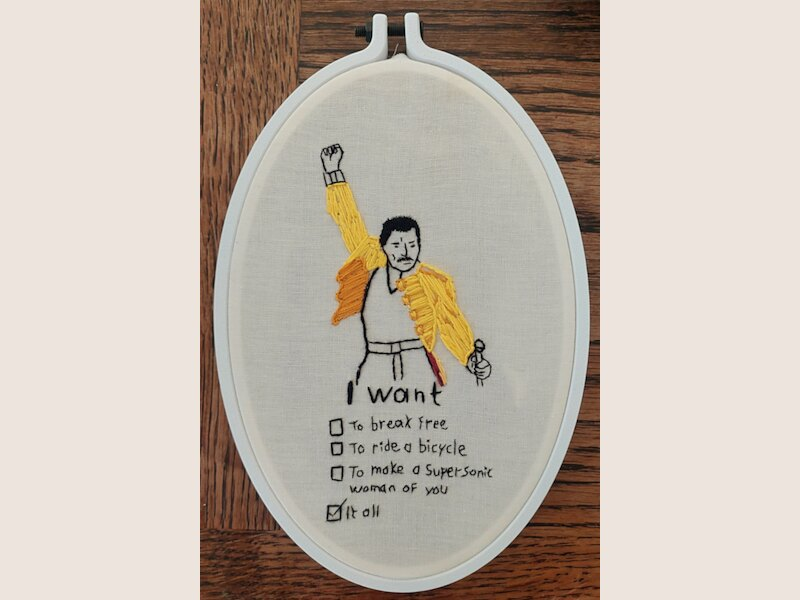
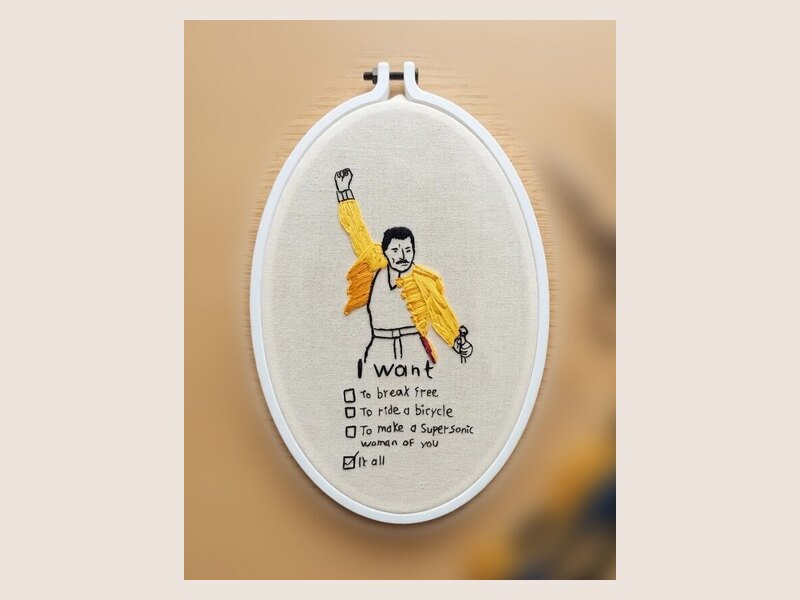
Freddie : photo mise en scène en principale, photo réelle en galerie
Claude-Session: https://claude.ai/code/session_015QeqxFQgaAZggYLjUjAvWV

diff --git a/components/catalog.js b/components/catalog.js
@@ -192,10 +192,13 @@ const LPS_CATALOG = {
       hoopColors: "all",
       label: "Freddie",
       tag: { icon: "🎤", text: "Grand format ovale" },
-      image: "./images/atelier-freddie.jpg",
+      image: "./images/atelier-freddie-scene.jpg",
       thumb: "./images/thumbs/atelier-freddie.jpg",
       imageAlt: "Broderie sur cercle ovale : chanteur poing levé en veste jaune, avec une liste de souhaits brodée « I want… »",
-      gallery: [{ src: "./images/atelier-freddie.jpg", alt: "Freddie, broderie sur cercle ovale", rotation: 0 }],
+      gallery: [
+        { src: "./images/atelier-freddie-scene.jpg", alt: "Freddie, mise en scène", rotation: 0 },
+        { src: "./images/atelier-freddie.jpg", alt: "Freddie, photo réelle sur cercle ovale", rotation: 0 },
+      ],
       description: "Poing levé, veste jaune et ses paroles cultes à cocher : un hommage brodé au plus grand des showmen.",
       delays: "kit 48 h ouvrées · broderie finie 5 à 8 jours",
       formats: ["kit", "fini"],
